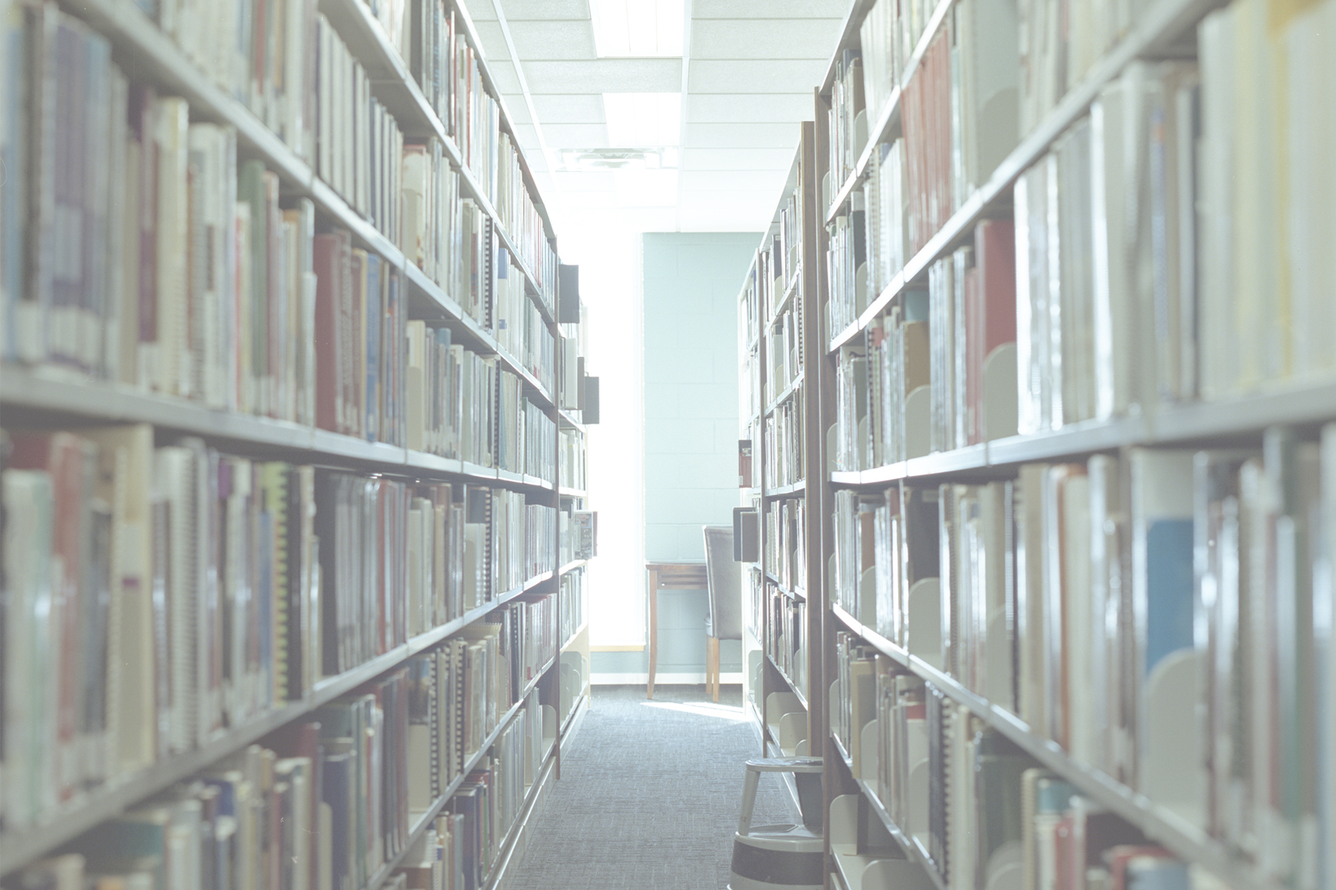
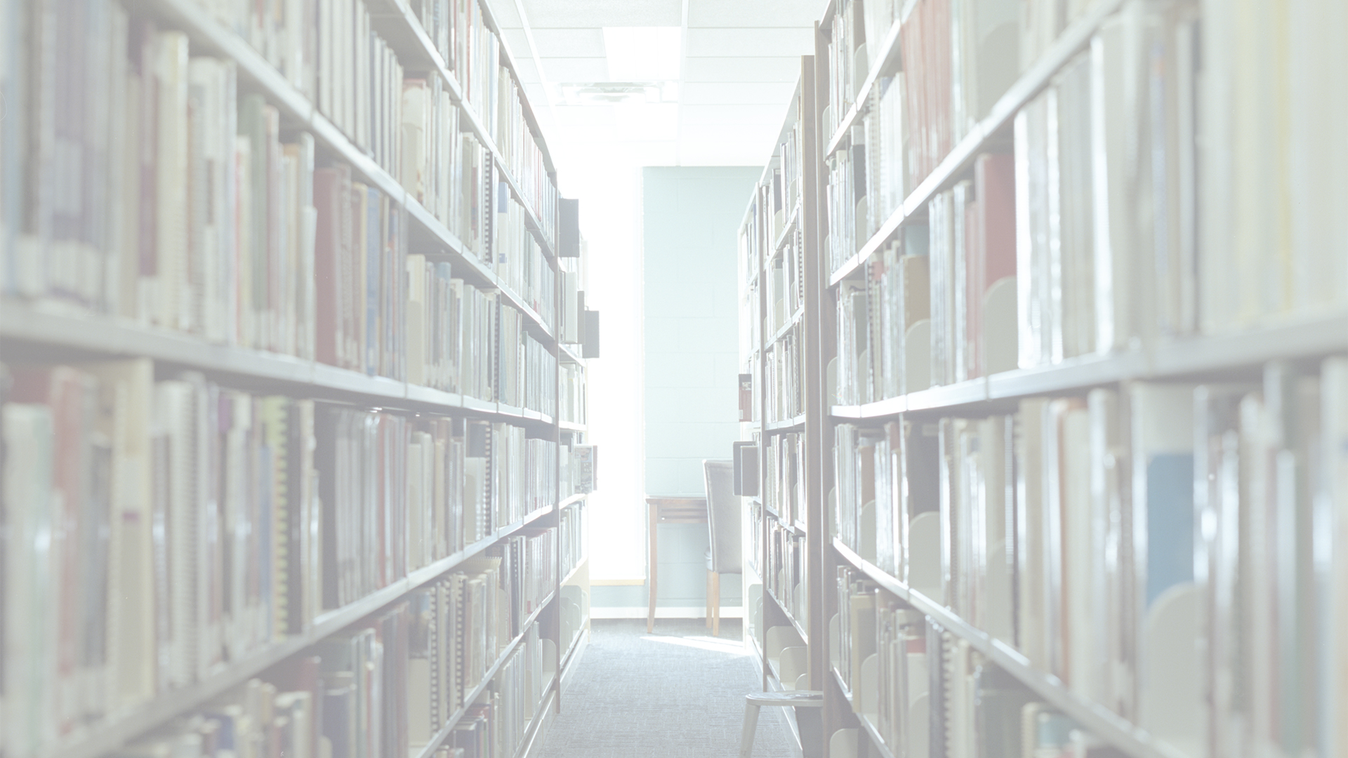
CSS Clean-up
Combined multiple stylesheets into main-style

diff --git a/lucky-bone-photography/front-page.html b/lucky-bone-photography/front-page.html
@@ -54,13 +54,13 @@
     <!--Center Nav Menu-->  
     <div class="container-fluid front-menu-bar">
         <div class="row">
-            <div class="col text-right align-self-center py-3">
+            <div class="col text-right align-self-center">
                 <a href="web-portfolio.html">Web Dev</a>
             </div>
-            <div class="col-1 text-center align-self-center py-3">
+            <div class="col-1 text-center align-self-center py-4">
                 <p class="unselectable m-0">|</p>
             </div>
-            <div class="col text-left align-self-center py-3">
+            <div class="col text-left align-self-center">
                 <a href="photo-portfolio.html">Photography</a>
             </div>
         </div>
@@ -70,11 +70,11 @@
     <div class="container fixed-bottom">
         <div class="row">
             <div class="col p-1 text-center">
-                <a class="px-2" href="https://www.instagram.com/luckybone.photography/?hl=en">
-                    <i class="fab fa-instagram" class="social-media-icon"></i>
+                <a class="px-2 pr-2" href="https://www.instagram.com/luckybone.photography/?hl=en">
+                    <i class="fab fa-instagram"></i>
                 </a>
-                <a class="px-2" href="https://www.facebook.com/lucky.bone.photo/">
-                    <i class="fab fa-facebook-square" class="social-media-icon"></i>
+                <a class="px-2 pl-2" href="https://www.facebook.com/lucky.bone.photo/">
+                    <i class="fab fa-facebook-square"></i>
                 </a>
             </div>
         </div> 

diff --git a/lucky-bone-photography/css/main-style.css b/lucky-bone-photography/css/main-style.css
@@ -1,4 +1,11 @@
 body {
+    /*Change this to dynamic content with PHP*/
+    background-image: URL("../imgs/photo-services-back.jpg");
+    
+    height: 100%;
+    background-position: center;
+    background-repeat: no-repeat;
+    background-size: fill;
     font-family: brother-1816, sans-serif;
     font-size: 62%;
     font-weight: 100;
@@ -25,6 +32,40 @@ a:hover {
     background-color: rgba(191,224,223,.6);
 }
 
+/*SERVICES PAGE*/
+.services {
+    background-color: rgba(255,255,255,0.3);
+    font-size: 1.15em;
+    }
+
+.services h3 {
+    font-size: 1.5em;
+    font-weight: 200;
+}
+
+.indent {
+    text-indent: 30px;
+}
+
+/*TEMP WEB PORTFOLIO*/
+.temp-content {
+    background-color: rgba(255,255,255,0.3);
+    font-size: 1.85em;
+    font-weight: 200;
+}
+
+/*CONTACT PAGE*/
+.contact-info {
+    background-color: rgba(255,255,255,0.3);
+    font-size: 2em;
+    font-weight: 200;
+}
+
+.email {
+    font-weight: 100;
+}
+
+/*MISC*/
 .unselectable {
     -webkit-user-select: none;
     -moz-user-select: none;

diff --git a/lucky-bone-photography/photo-portfolio.html b/lucky-bone-photography/photo-portfolio.html
@@ -37,7 +37,6 @@
     <link rel="stylesheet" href="css/main-style.css">
     <link rel="stylesheet" href="css/portfolio-header.css">
     <link rel="stylesheet" href="css/footer.css">
-    <link rel="stylesheet" href="css/photo-portfolio.css">
 
     <title>Luckybone|Photo Portfolio</title>
   </head>
@@ -76,7 +75,7 @@
           </div>
 
           <!--Sub Nav Menu-->
-          <nav class="row justify-content-center my-2 mr-0 sub-nav">
+          <nav class="row justify-content-center my-2 ml-4 mr-0 sub-nav">
               <div class="container navbar navbar-expand-md">
 
                 <!--Collapse button-->
@@ -119,7 +118,6 @@
               </div>
           </nav>
         </div>
-      </nav>
     </nav>
 
     <!--Static Portfolio (for now)-->
@@ -153,6 +151,12 @@
         </div>
       </div>
     </div>
+
+    <!--Modal Lightbox-->
+    
+
+
+
 
     <!--Footer-->
     <div class="container text-center p-2 mb-3 mt-5 footer">

diff --git a/lucky-bone-photography/web-portfolio.html b/lucky-bone-photography/web-portfolio.html
@@ -37,7 +37,6 @@
     <link rel="stylesheet" href="css/main-style.css">
     <link rel="stylesheet" href="css/portfolio-header.css">
     <link rel="stylesheet" href="css/footer.css">
-    <link rel="stylesheet" href="css/web-portfolio.css">
 
     <title>Luckybone|Photo Portfolio</title>
   </head>
@@ -76,7 +75,7 @@
           </div>
 
           <!--Sub Nav Menu-->
-          <nav class="row justify-content-center my-2 mr-0 sub-nav">
+          <nav class="row justify-content-center my-2 ml-4 mr-0 sub-nav">
               <div class="container navbar navbar-expand-md">
 
                 <!--Collapse button-->

diff --git a/lucky-bone-photography/contact.html b/lucky-bone-photography/contact.html
@@ -37,8 +37,6 @@
     <link rel="stylesheet" href="css/main-style.css">
     <link rel="stylesheet" href="css/header.css">
     <link rel="stylesheet" href="css/footer.css">
-    <link rel="stylesheet" href="css/contact.css">
-
 
     <title>Luckybone|Contact</title>
   </head>
@@ -72,7 +70,7 @@
             </div>
   
             <!--Sub Nav Menu-->
-            <nav class="row justify-content-center my-2 mr-0 sub-nav">
+            <nav class="row justify-content-center my-2 ml-4 mr-0 sub-nav">
                 <div class="container navbar navbar-expand-md">
 
                   <!--Collapse button-->

diff --git a/lucky-bone-photography/photo-services.html b/lucky-bone-photography/photo-services.html
@@ -37,7 +37,6 @@
     <link rel="stylesheet" href="css/main-style.css">
     <link rel="stylesheet" href="css/header.css">
     <link rel="stylesheet" href="css/footer.css">
-    <link rel="stylesheet" href="css/photo-services.css">
 
     <title>Luckybone|Photo Services</title>
   </head>
@@ -71,7 +70,7 @@
           </div>
 
           <!--Sub Nav Menu-->
-          <nav class="row justify-content-center my-2 mr-0 sub-nav">
+          <nav class="row justify-content-center my-2 ml-4 mr-0 sub-nav">
               <div class="container navbar navbar-expand-md">
 
                 <!--Collapse button-->

diff --git a/lucky-bone-photography/css/front-page.css b/lucky-bone-photography/css/front-page.css
@@ -4,16 +4,7 @@ body {
     background-position: center;
     background-repeat: no-repeat;
     background-size: fill;
-    font-size: 35px;
-}
-
-a {
-    color: #163838;
-}
-
-a:hover {
-    color: #c85216;
-    text-decoration: none;
+    font-size: 2em;
 }
 
 .main-logo {
@@ -21,11 +12,16 @@ a:hover {
 }
 
 .front-menu-bar {
-    background-color: #ffffff;
+    background-color: rgba(191,224,223,.9);
     color: #163838;
-    box-sizing: content-box;
 }
 
-.social-media-icon {
-    height: 1rem;   
-}   
+.fab {
+    opacity: 40%;
+    height: 1.5em;
+}
+
+.fab:hover {
+    opacity: 100%;
+}
+

diff --git a/lucky-bone-photography/css/header.css b/lucky-bone-photography/css/header.css
@@ -6,7 +6,7 @@
     transition:.5s;
     height: 9rem;
 }
-/* increase logo size*/
+/* increase logo size on hover*/
 .header-logo:hover {
     -o-transition:.5s;
     -ms-transition:.5s;
@@ -24,7 +24,7 @@
 
 .sub-nav {
     color: #163838;
-    font-size: 1.85em;
+    font-size: 2em;
 }
 
 .header-social-media-link {

diff --git a/lucky-bone-photography/web-services.html b/lucky-bone-photography/web-services.html
@@ -70,7 +70,7 @@
           </div>
 
           <!--Sub Nav Menu-->
-          <nav class="row justify-content-center my-2 mr-0 sub-nav">
+          <nav class="row justify-content-center my-2 ml-4 mr-0 sub-nav">
               <div class="container navbar navbar-expand-md">
 
                 <!--Collapse button-->
